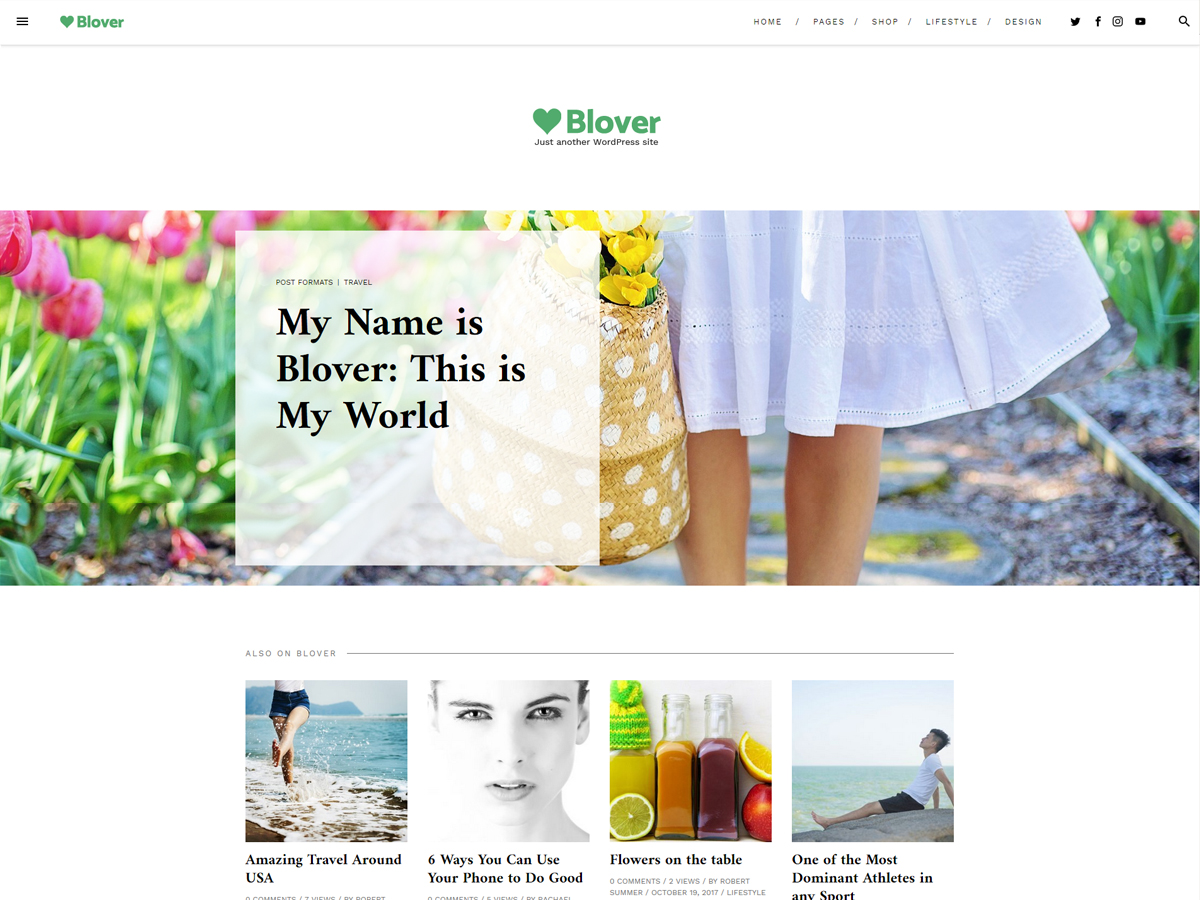
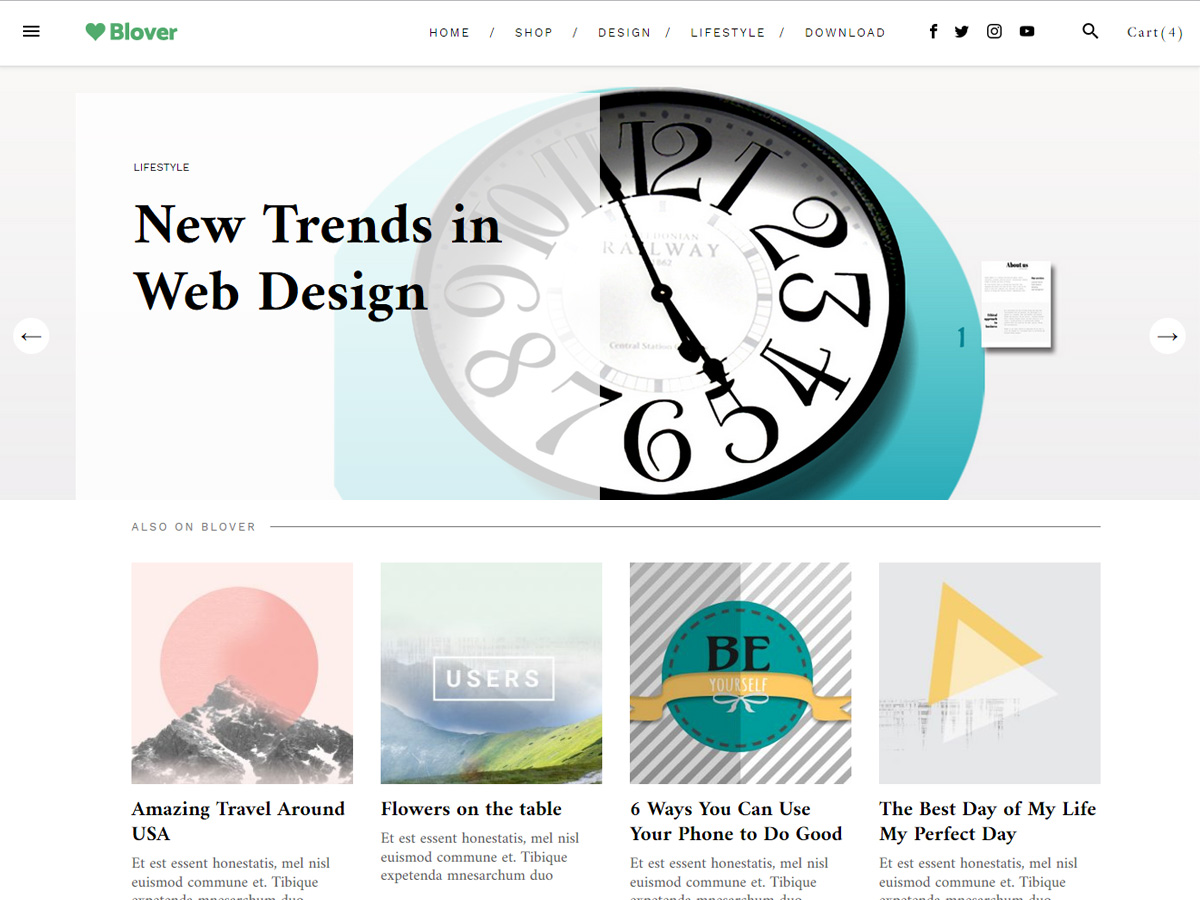
screenshot changed and license file added

diff --git a/scss/underscores/style.scss b/scss/underscores/style.scss
@@ -4,7 +4,7 @@ Theme URI: https://blogonyourown.com/themes/blover/
 Author: BlogOnYourOwn.com
 Author URI: https://blogonyourown.com
 Description: If you are looking for the perfect template for yourself, you've come to the right place, because Blover is the perfect theme for you. Blover is created by passionate people who strive to make their products meet the expectations of the user. That's why we are always happy to hear from you. Our goal is to improve our products and adapt them to your needs. Our satisfaction is to make our user happy. Blover is a beautiful  free e-commerce WordPress Theme. Great for a website such as a blog or magazine, but also ideally suited as a WooCommerce website that impresses with its professional appearance.  Simply, clean and modern design with elegant details will makes your website unique and special. Blover creates a good user experience by focusing on content. Therefore, if you are the owner of an online store selling products will be very simple with our theme. Blover is  extremely easy to customize - allows you to create a stunning website in minutes and fully responsive – perfect fit for all devices. Suitable for all types of blog, magazine, news, newspaper, e-commerce shop, fashion website, startups or any small and corporate business. If you are blogger, photographer, designer, traveler, store owner, illustrator, food lovers, salesman and you have something important to tell Blover is perfect for you. Blover is well coded with care to details and fully compatible with WooCommerce. Blover has many features including: 4 Homepage Layouts, 4 Post Formats, 2 Page Layouts, 2 Single Post Layouts, 6 Widget Areas, 2 Menus: Top Menu & Left Menu (main, mobile menu – toggled with button), all Theme Options Easily Customized by Native WordPress Customizer (Live Preview), Translation Ready, 3 Pagination styles, Responsive Design, Sticky Sidebarand much much more. Support for AMP plugin. Tested with new block editor (Gutenberg). Thank you for choosing Blover the best WordPress blog / magazine & shop theme in 2018 with great support and friendly help:). If you have any questions, comments or suggestions about our theme, we’d love to hear from you. 
-Version: 1.2.2
+Version: 1.2.3
 License: GNU General Public License v2 or later
 License URI: http://www.gnu.org/licenses/gpl-2.0.html
 Tags: two-columns, three-columns, right-sidebar, grid-layout, custom-background, custom-colors, custom-menu, custom-logo, featured-images, full-width-template, footer-widgets, post-formats, sticky-post, theme-options, threaded-comments, translation-ready, blog, news, e-commerce

diff --git a/style.css b/style.css
@@ -5,7 +5,7 @@ Theme URI: https://blogonyourown.com/themes/blover/
 Author: BlogOnYourOwn.com
 Author URI: https://blogonyourown.com
 Description: If you are looking for the perfect template for yourself, you've come to the right place, because Blover is the perfect theme for you. Blover is created by passionate people who strive to make their products meet the expectations of the user. That's why we are always happy to hear from you. Our goal is to improve our products and adapt them to your needs. Our satisfaction is to make our user happy. Blover is a beautiful  free e-commerce WordPress Theme. Great for a website such as a blog or magazine, but also ideally suited as a WooCommerce website that impresses with its professional appearance.  Simply, clean and modern design with elegant details will makes your website unique and special. Blover creates a good user experience by focusing on content. Therefore, if you are the owner of an online store selling products will be very simple with our theme. Blover is  extremely easy to customize - allows you to create a stunning website in minutes and fully responsive – perfect fit for all devices. Suitable for all types of blog, magazine, news, newspaper, e-commerce shop, fashion website, startups or any small and corporate business. If you are blogger, photographer, designer, traveler, store owner, illustrator, food lovers, salesman and you have something important to tell Blover is perfect for you. Blover is well coded with care to details and fully compatible with WooCommerce. Blover has many features including: 4 Homepage Layouts, 4 Post Formats, 2 Page Layouts, 2 Single Post Layouts, 6 Widget Areas, 2 Menus: Top Menu & Left Menu (main, mobile menu – toggled with button), all Theme Options Easily Customized by Native WordPress Customizer (Live Preview), Translation Ready, 3 Pagination styles, Responsive Design, Sticky Sidebarand much much more. Support for AMP plugin. Tested with new block editor (Gutenberg). Thank you for choosing Blover the best WordPress blog / magazine & shop theme in 2018 with great support and friendly help:). If you have any questions, comments or suggestions about our theme, we’d love to hear from you. 
-Version: 1.2.2
+Version: 1.2.3
 License: GNU General Public License v2 or later
 License URI: http://www.gnu.org/licenses/gpl-2.0.html
 Tags: two-columns, three-columns, right-sidebar, grid-layout, custom-background, custom-colors, custom-menu, custom-logo, featured-images, full-width-template, footer-widgets, post-formats, sticky-post, theme-options, threaded-comments, translation-ready, blog, news, e-commerce

diff --git a/CHANGELOG.md b/CHANGELOG.md
@@ -1,5 +1,10 @@
 # Changes to Blover
 
+## [1.2.3] - 2019-01-16
+
+### Changed
+- Screenshot changed to fit updated image policy on wp.org
+
 ## [1.2.2] - 2019-01-02
 
 ### Fixed
